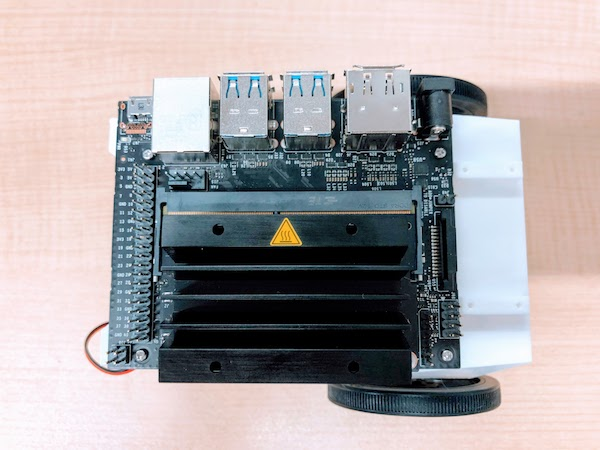
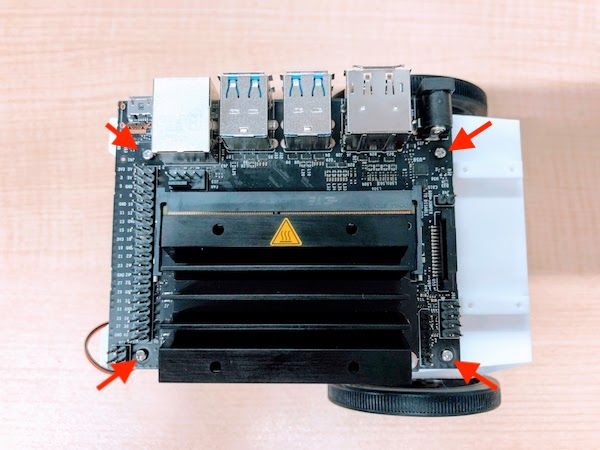
Deployed  with MkDocs version: 1.0.4

diff --git a/02.組み立て/01.build/index.html b/02.組み立て/01.build/index.html
@@ -318,14 +318,14 @@
 </li>
       
         <li class="md-nav__item">
-  <a href="#6pi" title="6、Piカメラの準備" class="md-nav__link">
-    6、Piカメラの準備
+  <a href="#7" title="7. カメラの装着" class="md-nav__link">
+    7. カメラの装着
   </a>
   
 </li>
       
         <li class="md-nav__item">
-  <a href="#7" title="7、バッテリー取り付け" class="md-nav__link">
+  <a href="#7_1" title="7、バッテリー取り付け" class="md-nav__link">
     7、バッテリー取り付け
   </a>
   
@@ -616,14 +616,14 @@
 </li>
       
         <li class="md-nav__item">
-  <a href="#6pi" title="6、Piカメラの準備" class="md-nav__link">
-    6、Piカメラの準備
+  <a href="#7" title="7. カメラの装着" class="md-nav__link">
+    7. カメラの装着
   </a>
   
 </li>
       
         <li class="md-nav__item">
-  <a href="#7" title="7、バッテリー取り付け" class="md-nav__link">
+  <a href="#7_1" title="7、バッテリー取り付け" class="md-nav__link">
     7、バッテリー取り付け
   </a>
   
@@ -784,10 +784,12 @@
 <p><img alt="" src="../img/kit023.JPG" /></p>
 <hr>
 
-<h2 id="6pi">6、Piカメラの準備</h2>
-<p>カメラマウントにPiカメラを取り付けます。</p>
+<h2 id="7">7. カメラの装着</h2>
+<p>カメラマウントにカメラを取り付けます。</p>
 <p>使用ネジ　M2-6mmタッピングネジ　x4</p>
-<p><img alt="" src="../img/jb6-01.jpg" /></p>
+<p><img alt="" src="../img/kit024.JPG" /></p>
+<p><img alt="" src="../img/kit025.JPG" /></p>
+<p><img alt="" src="../img/kit026.JPG" /></p>
 <p>POINT</p>
 <p>ネジとネジ穴が小さいので慎重に取り付けましょう。本体を持たず、テーブルに置けばネジを回し易いです。</p>
 <p>回し過ぎには注意しましょう。</p>
@@ -795,7 +797,7 @@
 <p>使用ネジ　M2-6mmタッピングネジ　x4</p>
 <hr>
 
-<h2 id="7">7、バッテリー取り付け</h2>
+<h2 id="7_1">7、バッテリー取り付け</h2>
 <p>両面テープで固定します。</p>
 <hr>
 
